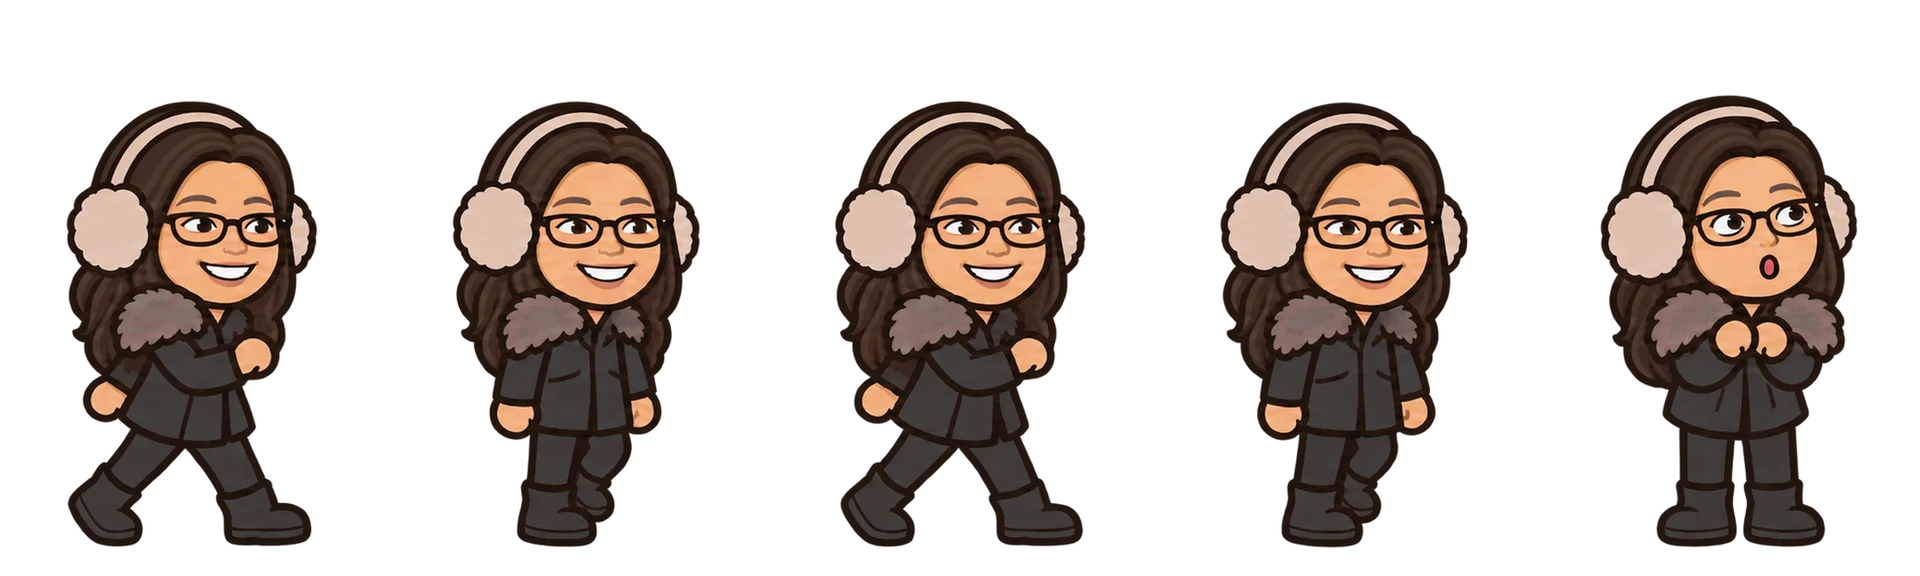
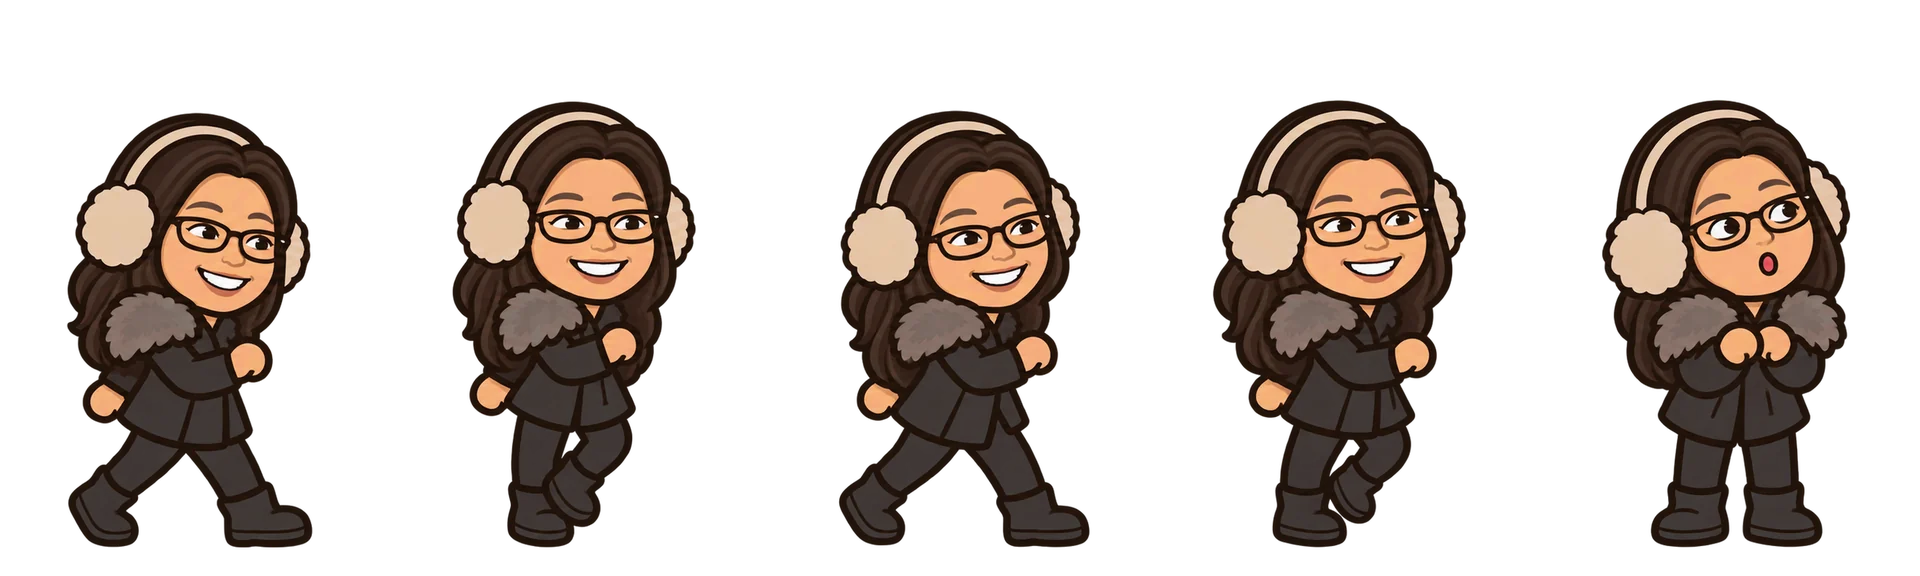
광장 주인장 family-02: v1 그림으로 되돌림 (주인 선택)
make_plaza_guests.py에 손님별 판 고정(opts v)

Claude-Session: https://claude.ai/code/session_013gkWdjqDwwMfs8SrUNHEXQ

diff --git a/tools/make_plaza_guests.py b/tools/make_plaza_guests.py
@@ -26,7 +26,7 @@ GUESTS = {
     # HUMAN: 칸마다 키를 맞추면 큰 머리가 커졌다 작아졌다 흔들려서, 한 배율(①~⑤ 키 가운데값)로 줄이고 가로는 머리 가운데로 맞춤
     'mandeuk': (577, (0, 0, 0, 0, 0), HUMAN),
     'family-01': (591, (0, 0, 0, 0, 0), HUMAN),
-    'family-02': (595, (0, 0, 0, 0, 0), HUMAN),
+    'family-02': (595, (0, 0, 0, 0, 0), {**HUMAN, 'v': 1}),  # v1이 더 좋다(주인, 2026-11-17)
     'family-03': (546, (0, 0, 0, 0, 0), HUMAN),
 }
 
@@ -61,8 +61,10 @@ def head_center(im):
 
 def convert(name, target, lifts, opts=None):
     opts = opts or {}
-    # 가장 높은 판(-vN)을 씀 (주인장 v2: 팔 엇갈림·머리 고정으로 다시 받음, 2026-11-17)
+    # 가장 높은 판(-vN)을 씀 (opts v로 정해 둘 수 있음) (주인장 v2: 팔 엇갈림·머리 고정으로 다시 받음, 2026-11-17)
     srcs = sorted((ROOT / 'assets/plaza/guests').glob(f'{name}-walk-source-v*.png'), key=lambda f: int(f.stem.rsplit('-v', 1)[1]))
+    if opts.get('v'):  # 판을 정해 둔 손님
+        srcs = [f for f in srcs if f.stem.endswith(f"-v{opts['v']}")]
     src = Image.open(srcs[-1]).convert('RGBA')
     print(name, '←', srcs[-1].name)
     parts = [clean(src.crop((round(i * src.width / 5), 0,
